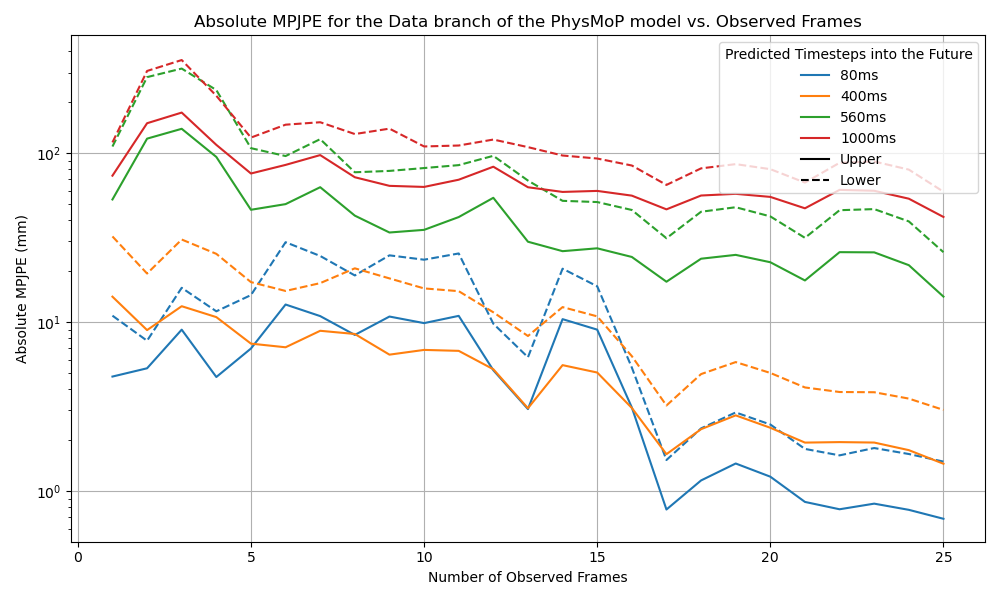
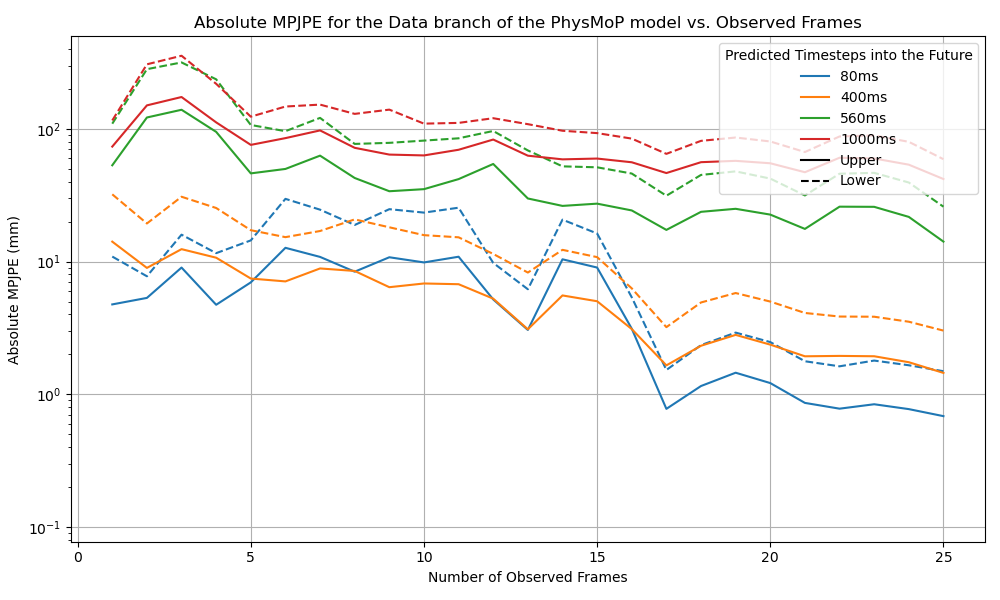
Correct logarithmic figures

diff --git a/exps/run/eval_upper_lower.py b/exps/run/eval_upper_lower.py
@@ -141,7 +141,7 @@ all_arrays = [
     upper_gcn, lower_gcn
 ]
 all_data = np.concatenate([arr.flatten() for arr in all_arrays if arr is not None])
-y_min = +0
+y_min = np.min(all_data[all_data > 0])  # Avoid zero for log scale
 y_max = np.percentile(all_data, 100)
 y_limits = (y_min, y_max)
 
